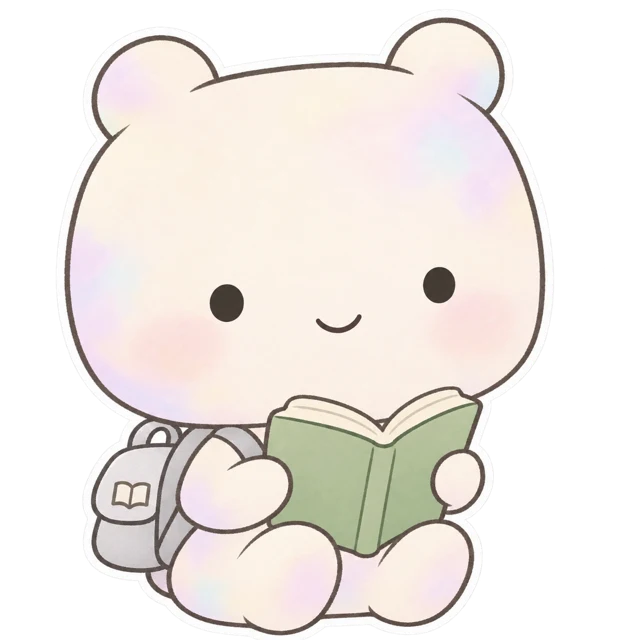
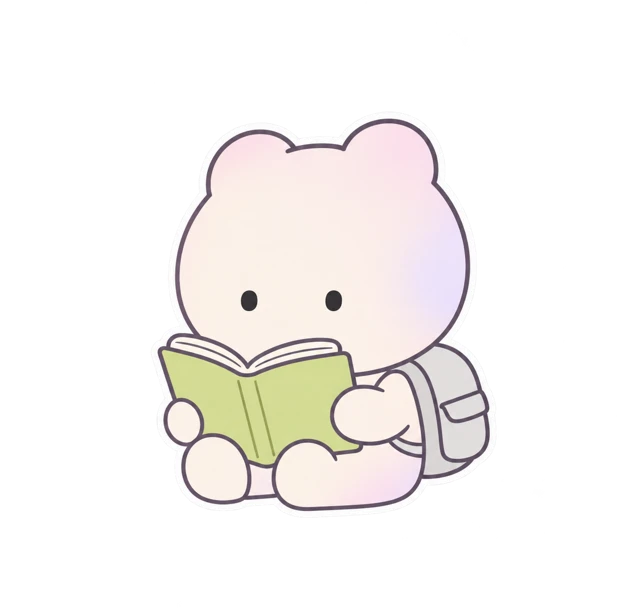
fix: match Lumi mascot to approved lemon sticker reference

diff --git a/src/components/common/Lumi.tsx b/src/components/common/Lumi.tsx
@@ -1,2 +1,2 @@
 import React from 'react';
-export const Lumi = ({ className = '' }: { className?: string }) => <img className={`lemon-lumi ${className}`} src="/mascots/lumi-reading.webp" alt="책을 읽는 루미" width="640" height="640" />;
+export const Lumi = ({ className = '' }: { className?: string }) => <img className={`lemon-lumi ${className}`} src="/mascots/lumi-reading.webp" alt="책을 읽는 루미" width="640" height="609" />;

diff --git a/docs/changes/lemon-lumi/README.md b/docs/changes/lemon-lumi/README.md
@@ -9,3 +9,6 @@ Acceptance: onboarding always first; CTA and exploration work; lessons still com
 Validation: typecheck, build, offline fallback, full lesson and landing entry tests plus responsive garden/reduced motion regression checks. Do not run live content-pipeline test.
 
 Results: TypeScript typecheck and Vite production build passed using the installed locked dependencies. pnpm 11 installed lockfile dependencies but reported ignored esbuild install scripts; direct TypeScript/Vite checks succeeded. Playwright discovered the new tests; browser execution is blocked by Chromium CDN HTTP 403 and no installed browser binary. Run the Verify workflow before merging. Asset is generated original Lumi sticker, optimized WebP (~39 KB).
+
+## Mascot correction
+Replaced the reading mascot with the approved reference board’s flat sticker proportions: tiny integrated ears, low simple dot eyes, no mouth, pale cream/lavender shading and a simple silver backpack. Shared Lumi component updates onboarding and home consistently. Preserved transparency and corrected intrinsic dimensions to the optimized asset.
